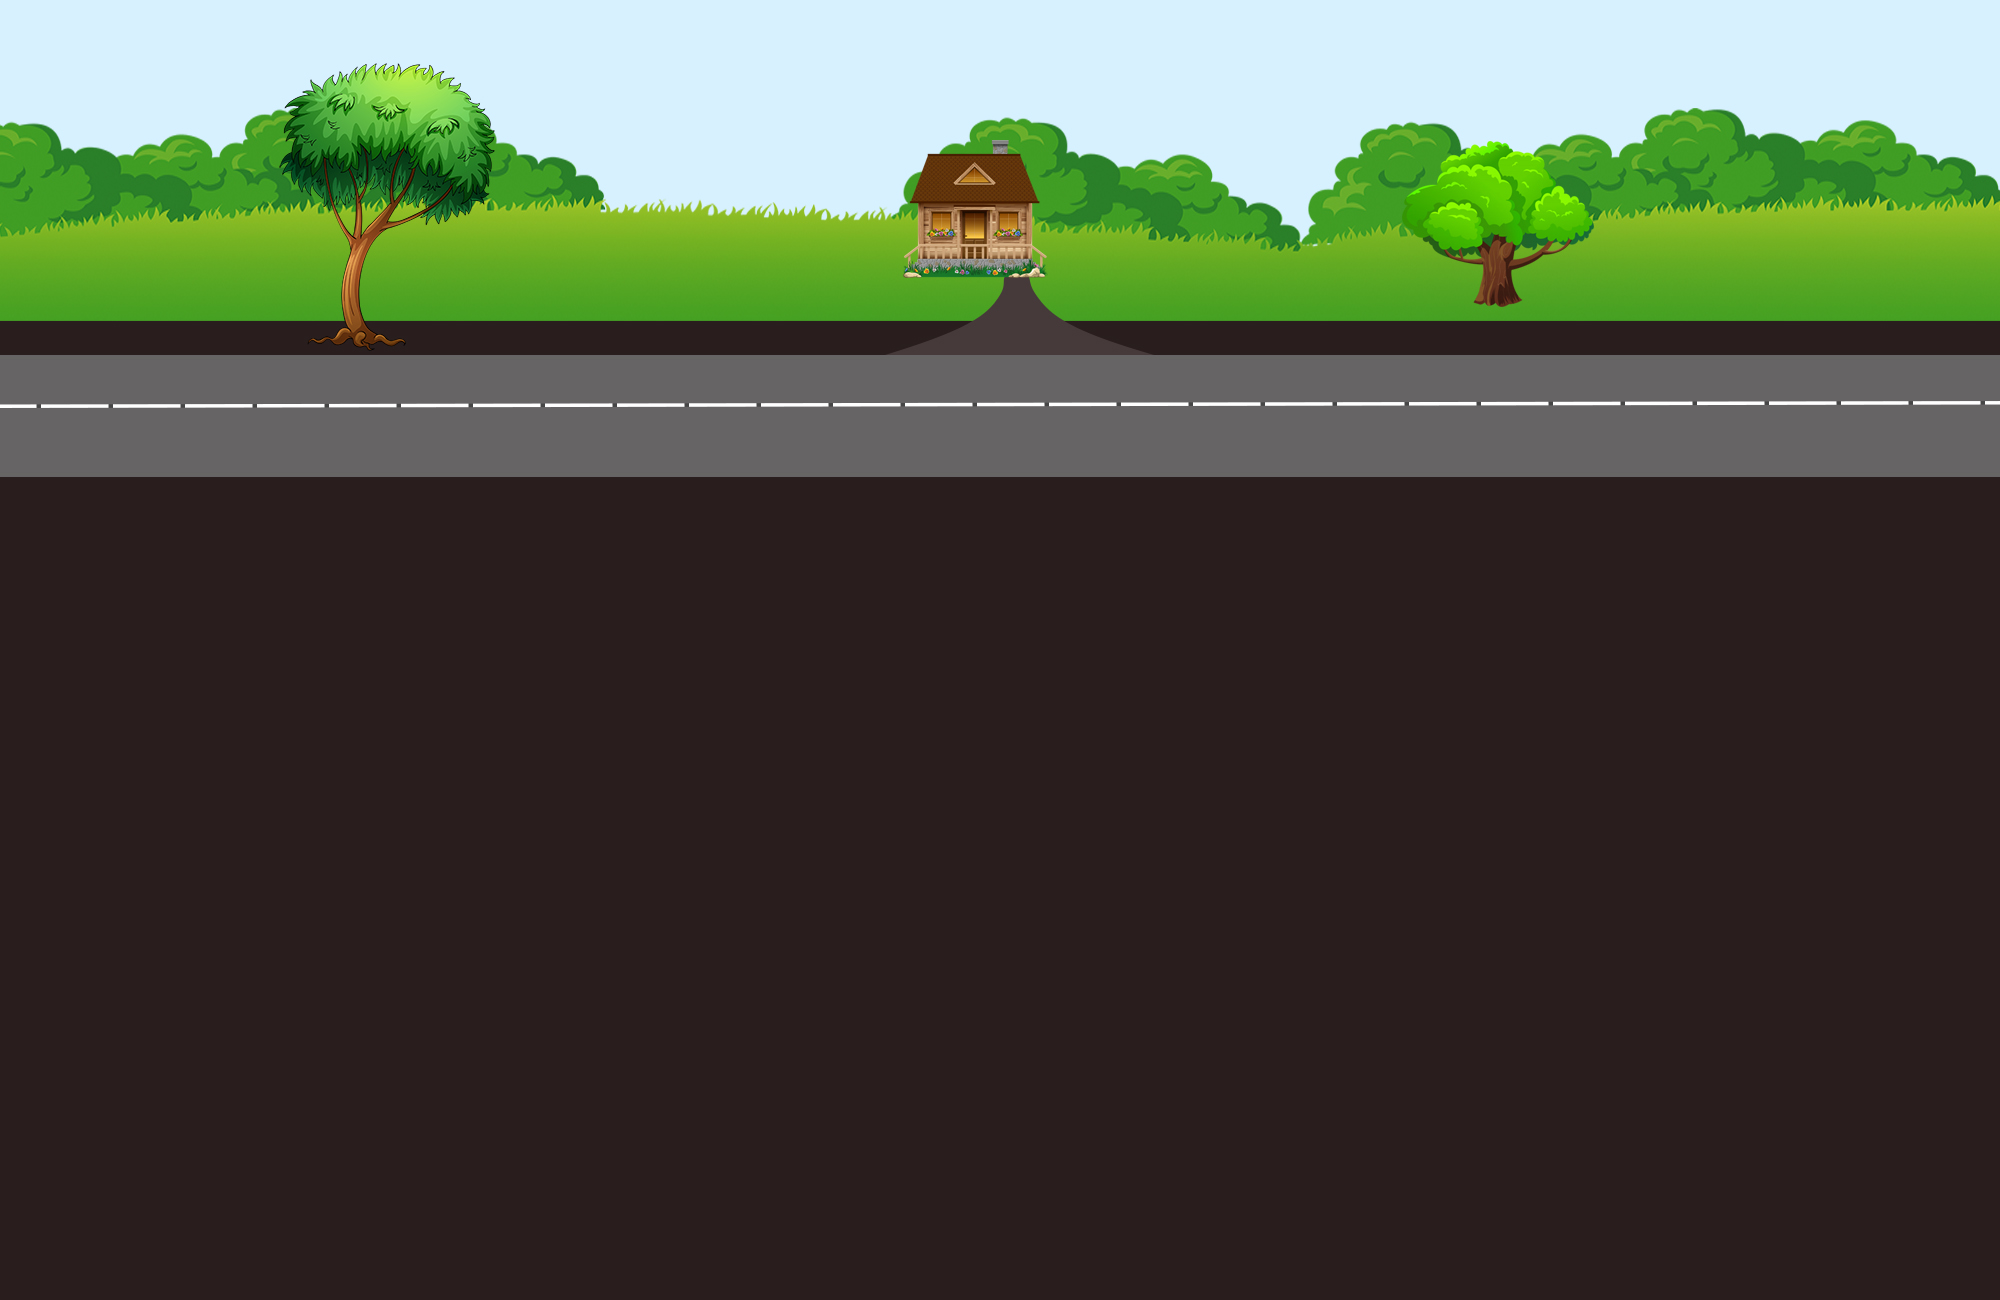
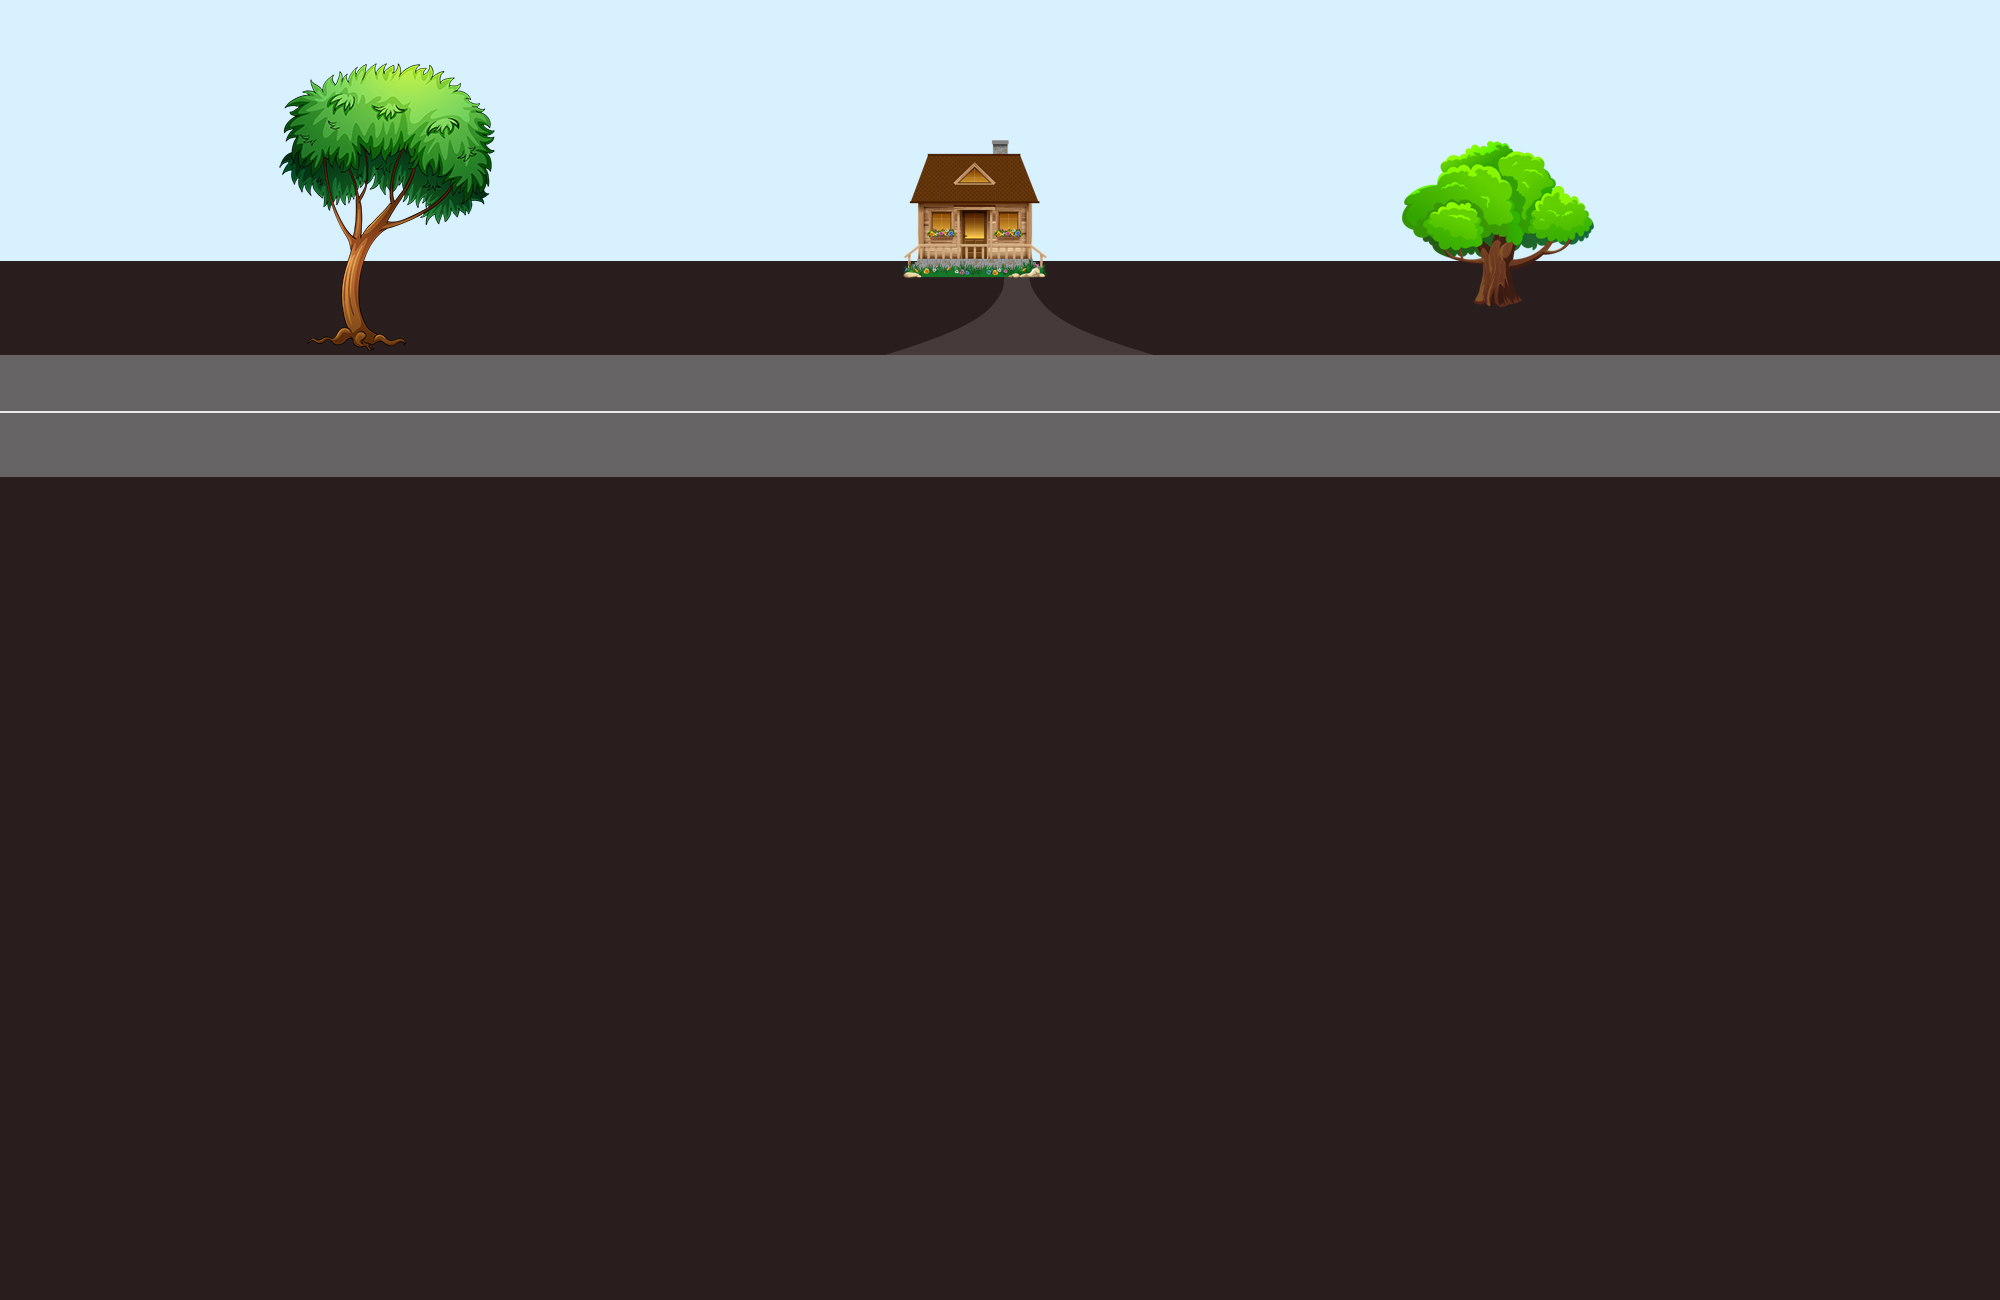
Add files via upload

Changed region(s): [[0.0, 0.0615, 1.0, 0.2462], [0.0, 0.3077, 1.0, 0.3385]]

diff --git a/index.html b/index.html
@@ -2,14 +2,24 @@
 <html>
 
 <head>
-  <meta http-equiv="Content-Type" content="text/html; charset=utf-8">
+<meta http-equiv="Content-Type" content="text/html; charset=utf-8">
   <style>
   
   body
   {
-    overflow-x:hidden;
-    background: #291d1d url("bodybg.jpg") center top no-repeat;
+
+
+    overflow:hidden;
+    background:#291d1d url("bodybg.jpg") center top repeat-x;
     background-size:auto;
+    margin:0 auto;
+  }
+  
+  .content
+  {
+    display:block;
+    max-width:2000px;
+    margin:0 auto;
   }
   
   #oblako
@@ -56,10 +66,11 @@
     height:130px;
     display:block;
     float:left;
-    margin-left:-400px;
+    margin-left:-900px;
     margin-top:330px;
     background:url("car.png") no-repeat;
     background-size:contain;
+    cursor:pointer;
    
     
   }
@@ -74,6 +85,7 @@
     margin-top:260px;
     background:url("car2.png") no-repeat;
     background-size:contain;
+    cursor:pointer;
   }
   
   #musor
@@ -108,7 +120,7 @@
         display:block;
         width:1300px;
         height:100px;
-        margin: 370px auto;
+        margin: 420px auto;
         
     }
     
@@ -164,33 +176,53 @@
         cursor: pointer;
     }
     
+
+    
+    #balance
+    {
+        display:block;
+        text-align:center;
+        font:32px arial;
+        color:#fff;
+        margin-top:0px;
+        background: #463a3a;
+        border-radius:5px;
+        width:600px;
+        margin:auto;
+        padding:8px;
+      
+    }
+    
   </style>
 </head>
 
 
 
 <body>
-
+<div class="cintent">
    <div id="oblako"></div> <!-- Блок облака 1 -->
    <div id="oblako2"></div> <!-- Блок облака 2 -->
    <div id="oblako3"></div> <!-- Блок облака 3 -->
    <div id="musor"></div>
-   <div id="carwhite"></div> <!-- Белая машина -->
-   <div id="carred"></div> <!-- Красная машина -->
+   <div id="carwhite" onclick="whitebal();"></div> <!-- Белая машина -->
+   <div id="carred" onclick="redbal();"></div> <!-- Красная машина -->
    
+  
   
   <!-- Блок кнопок -->
   <div id="button-block">
+   <p id="balance">0 очков</p>
+  
   <p id="kmred"></p>
   <p id="kmwhite"></p>
-  <button onclick="fastred();" class="green">Ускорить красную</button> <!-- Ускорить красную машину -->
+  <button onclick="fastred()" class="green">Ускорить красную</button> <!-- Ускорить красную машину -->
   <button onclick="tormozred()" class="red">Замедлить красную</button> <!-- Замедлить красную машину -->
   <button onclick="fastwhite()" class="green">Ускорить белую</button> <!-- Ускорить белую машину -->
   
   <button onclick="tormozwhite()" class="red">Замедлить белую</button> <!-- Замедлить красную машину -->
   </div>
   
-
+</div>
 
   
 
@@ -231,7 +263,7 @@
        
        document.getElementById("carred").style.left = num +"px";
        kmred.innerHTML = speed * 10 + " км/ч";
-       if(sum >= 2400)
+       if(sum >= screen.width*1.5)
        {
        document.getElementById("carred").style.left = "-400";
        num = 0;
@@ -254,7 +286,7 @@
        document.getElementById("carwhite").style.right = nums +"px";
        kmwhite.innerHTML = speeds * 10 + " км/ч";
        
-       if(sums >= 2600)
+       if(sums >= screen.width*1.5)
        {
        document.getElementById("carwhite").style.rigth = "-400";
        nums = 0;
@@ -309,40 +341,26 @@
        document.getElementById("oblako3").style.left = numo2 +"px";
       
       
-       if(sumo >= 2200)
+       if(sumo >= screen.width*1.4)
        {
        document.getElementById("oblako").style.left = "-190";
        numo = 0;
        }
        
        
-       if(sumoo >= 2200)
+       if(sumoo >= screen.width*1.2)
        {
        document.getElementById("oblako2").style.left = "-190";
        numoo = 0;
        }
        
-       if(sumo2 >= 2100)
+       if(sumo2 >= screen.width*1.3)
        {
        document.getElementById("oblako3").style.left = "-190";
        numo2 = 0;
        }
        
     }
-    
-    
-    
-    
-    
-    
-    
-    
-    
-    
-    
-    
-    
-    
     
     
     
@@ -362,7 +380,7 @@
        
        document.getElementById("musor").style.left = numo +"px";
        
-       if(summus >= 2200)
+       if(summus >= screen.width*1.2)
        {
        document.getElementById("musor").style.left = "-190";
        nummus = 0;
@@ -371,6 +389,58 @@
        
        
     }
+    
+    
+    var balances = 0;
+    
+    function redbal()
+    {
+        if(speed < 5)
+        {
+            var och = 1;
+        }
+        if(speed >= 5)
+        {
+            var och = 5;
+        }
+        if(speed >= 10)
+        {
+            var och = 10;
+        }
+        if(speed >= 15)
+        {
+            var och = 20;
+        }
+        balances = balances + och;    
+        balance.innerHTML = balances + " очков";
+        
+    }
+    
+    function whitebal()
+    {
+        if(speeds < 5)
+        {
+            var och = 1;
+        }
+        if(speeds >= 5)
+        {
+            var och = 5;
+        }
+        if(speeds >= 10)
+        {
+            var och = 10;
+        }
+        if(speeds >= 15)
+        {
+            var och = 20;
+        }
+        balances = balances + och;    
+        balance.innerHTML = balances + " очков";
+        
+    }
+    
+    
+    
 
   </script>
 
